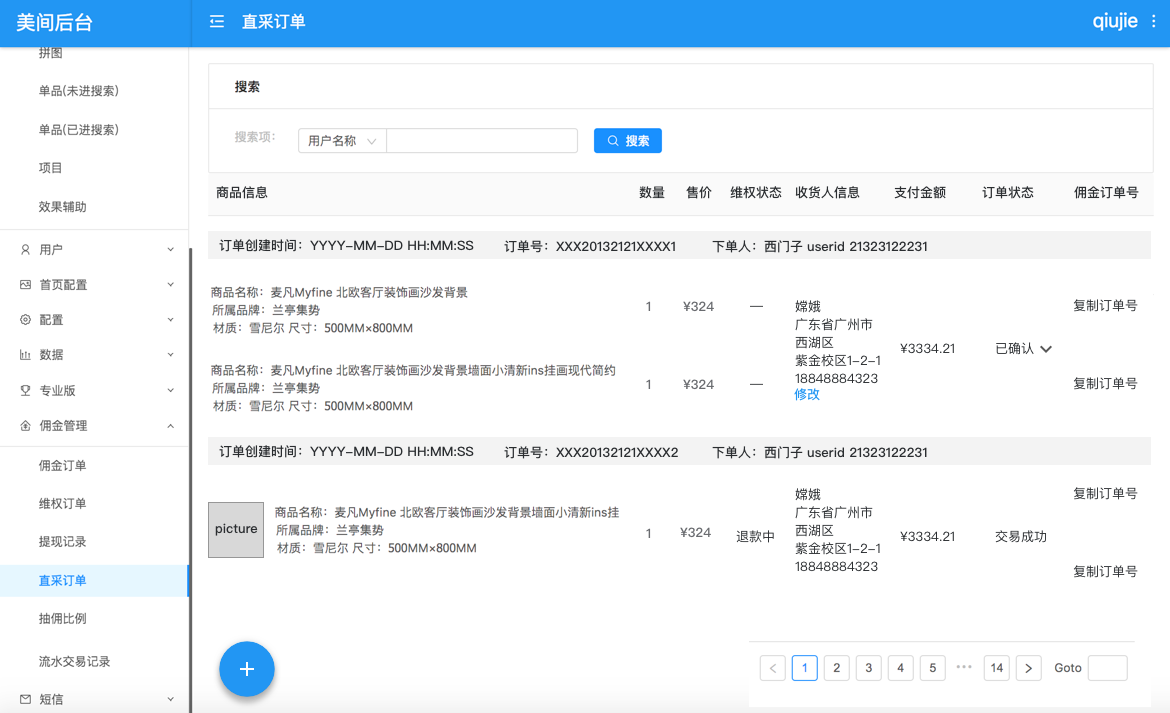
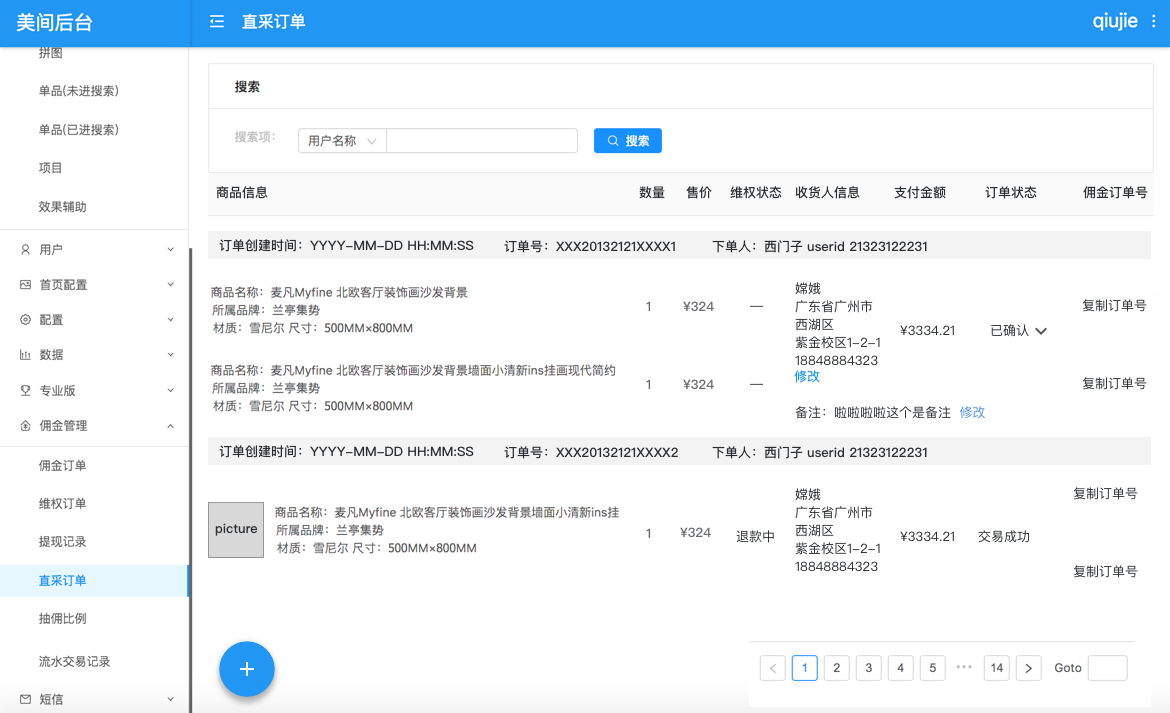
GitBook: [master] 2 pages and 2 assets modified

diff --git a/gong-neng-xu-qiu/4.3-zhi-cai-ding-dan-zheng-xiang.md b/gong-neng-xu-qiu/4.3-zhi-cai-ding-dan-zheng-xiang.md
@@ -10,7 +10,7 @@
 * **订单字段：**
 
 | 模块 | 解释 | 字段 | 类型 | 备注 |
-| --- | --- | --- | --- | --- | --- | --- | --- | --- | --- | --- | --- | --- | --- | --- | --- | --- | --- | --- | --- | --- | --- | --- | --- | --- | --- |
+| --- | --- | --- | --- | --- | --- | --- | --- | --- | --- | --- | --- | --- | --- | --- | --- | --- | --- | --- | --- | --- | --- | --- | --- | --- | --- | --- |
 | 订单信息 | 直采订单ID | order\_id | String |  |
 |  | 订单创建时间 （用户下单时间） | time | Int /YYYY-MM-DD HH:MM:SS |  |
 |  | 订单支付时间 | pay\_time | Int | 当前同确认时间 |
@@ -19,6 +19,7 @@
 |  | 订单状态 \*a | status | String |  |
 |  | 邮费价格 | Express\_amount | Double | 目前一般是包邮，默认0元 |
 |  | 订单支付价格 | pay\_amount | Double | 用于给用户支付的一个总金额 |
+|  | 订单备注 | order\_note | String | 订单备注 |
 | 商品信息 | 商品列表 | Item\_list | Array |  |
 |  | 商品ID | item\_id | String |  |
 |  | 商品名称 | item\_name | String |  |
@@ -66,7 +67,7 @@
 
 
 
-![](../.gitbook/assets/zhi-cai-ding-dan.png)
+![](../.gitbook/assets/zhi-cai-ding-dan-4.png)
 
 ## 4.3.2 直采订单手动创建、修改、查找（P1）
 
@@ -102,7 +103,7 @@
 
 * 提交订单后修改收件人信息
 
-![](../.gitbook/assets/zhi-cai-ding-dan-4.png)
+![](../.gitbook/assets/zhi-cai-ding-dan-4%20%281%29.png)
 
 ![](../.gitbook/assets/zhi-cai-ding-dan-5.png)
 

diff --git a/xiu-ding-li-shi.md b/xiu-ding-li-shi.md
@@ -1,5 +1,11 @@
 # 修订历史
 
+## 0.9.2-2018-6-22
+
+### 添加
+
+* 增加订单信息中的备注功能
+
 ## 0.9.1-2018-6-21
 
 ### 修改
